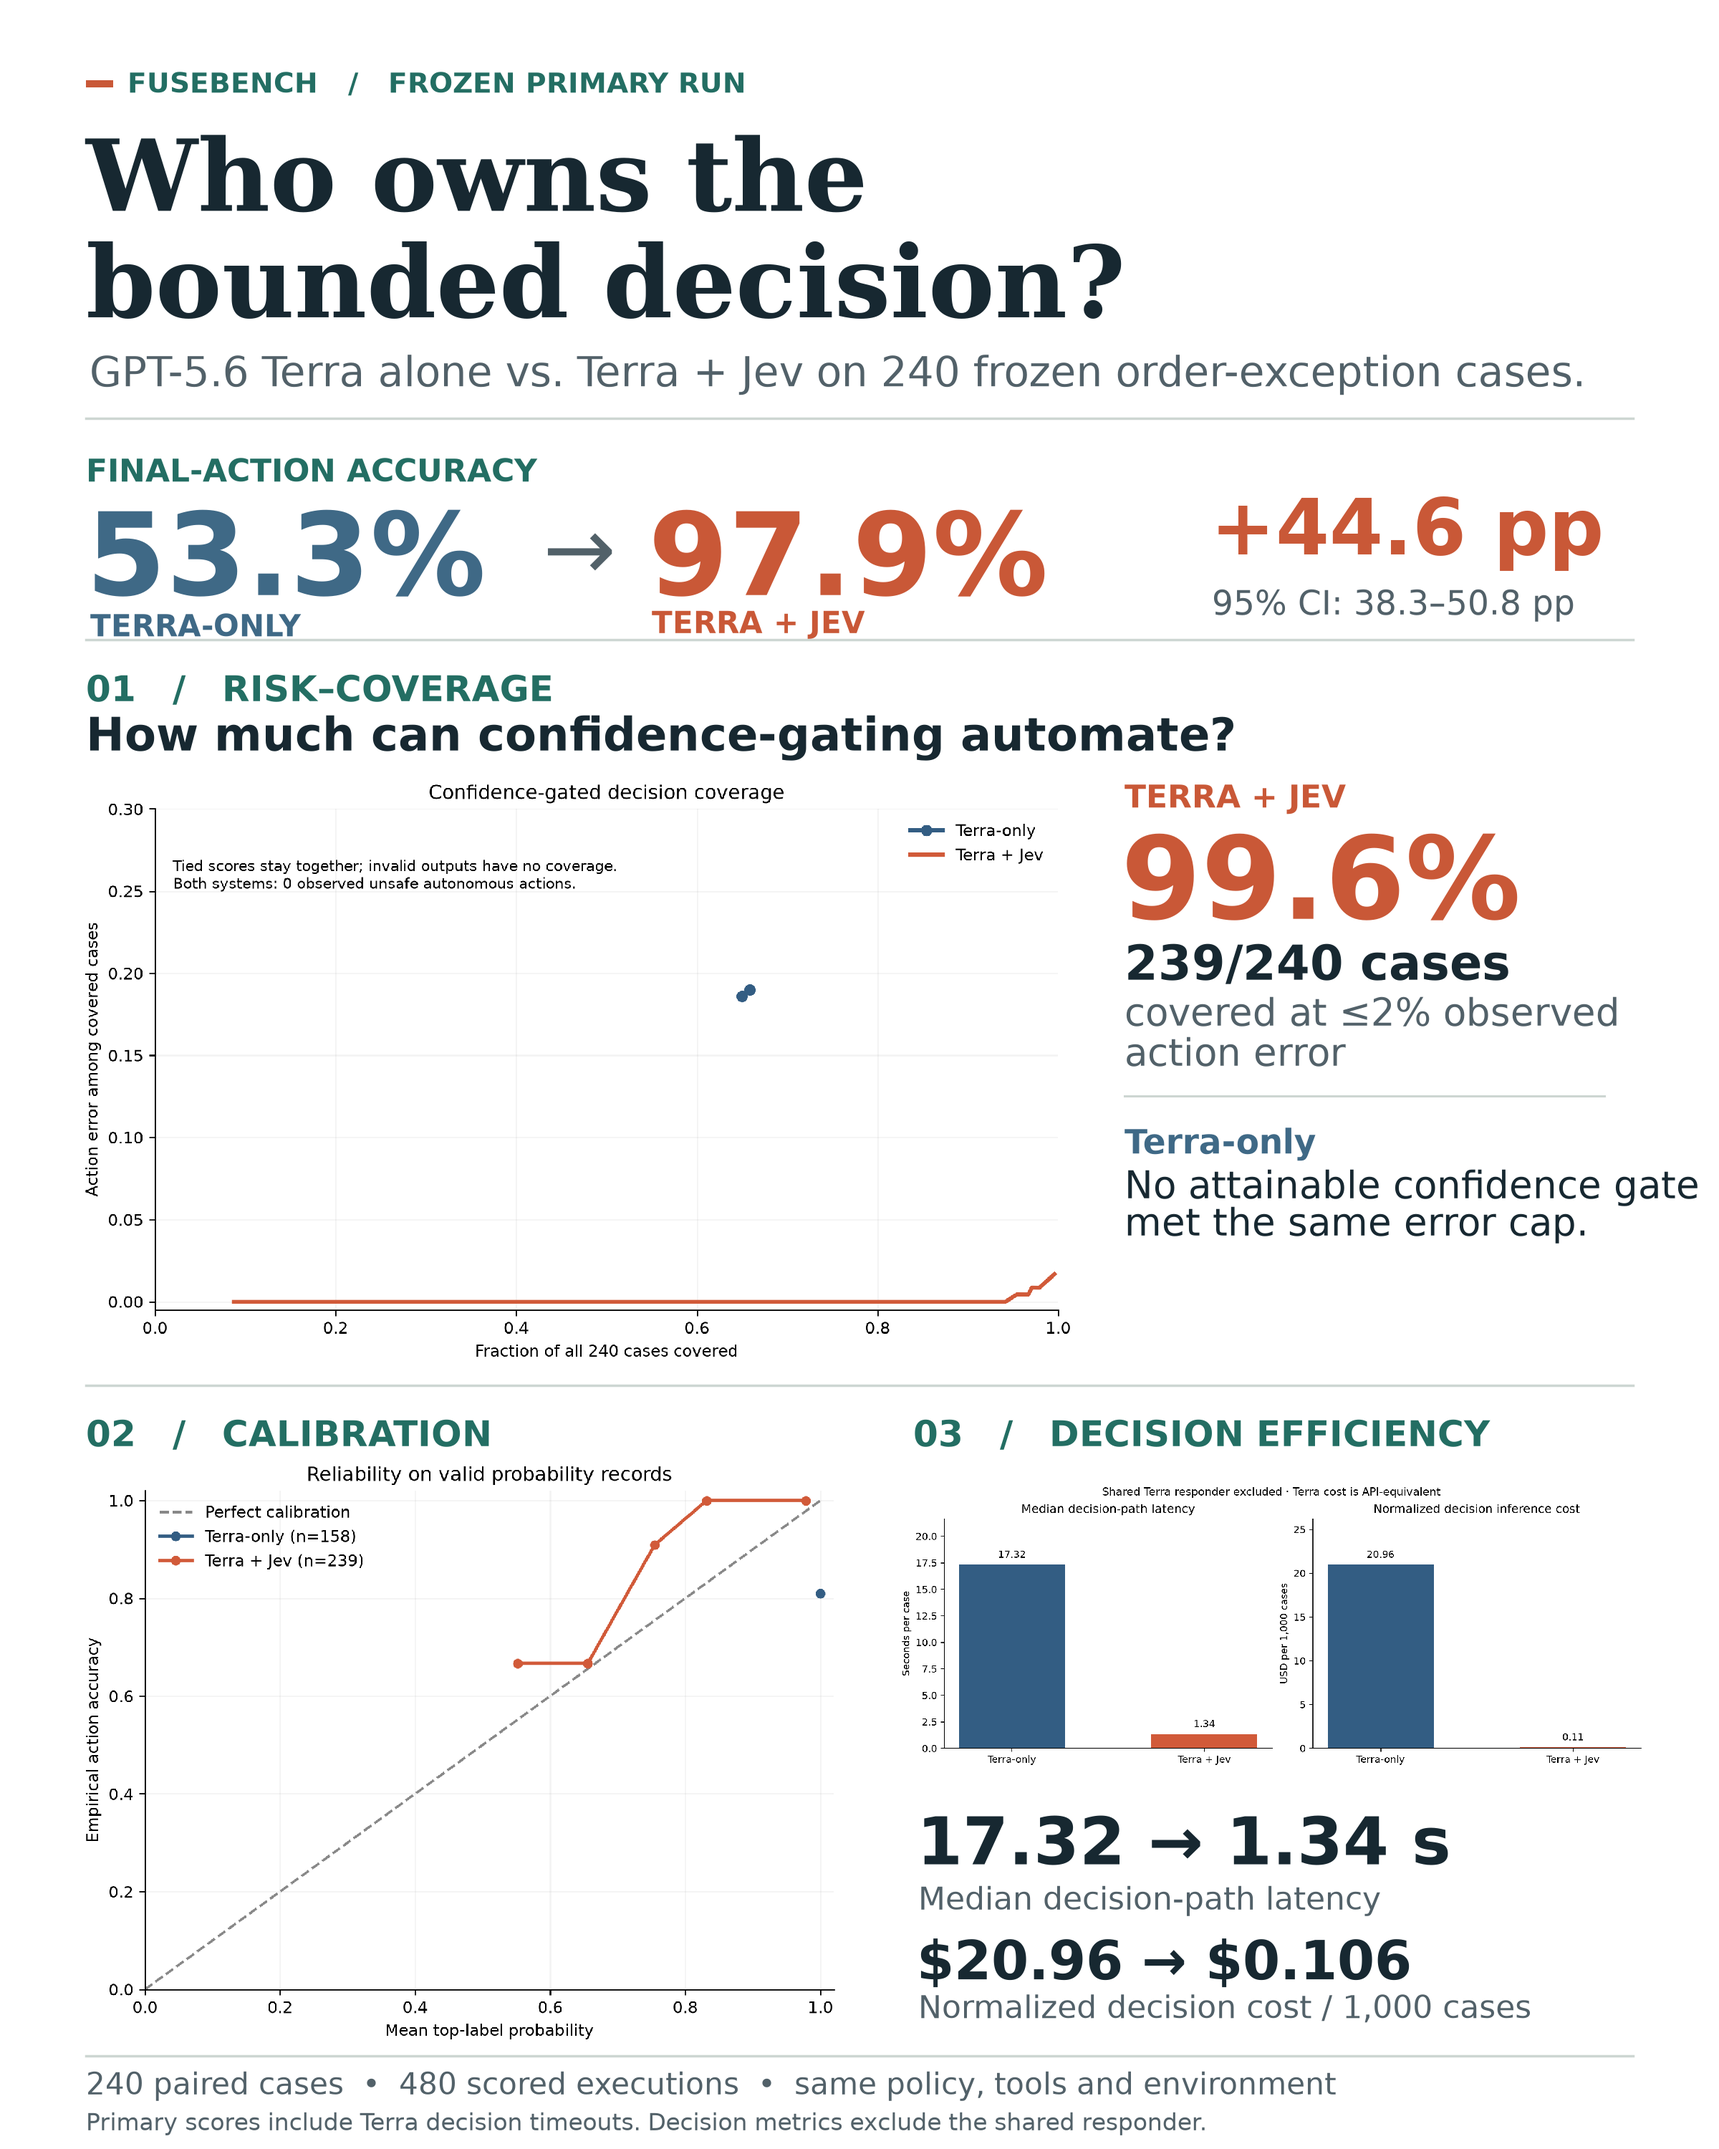
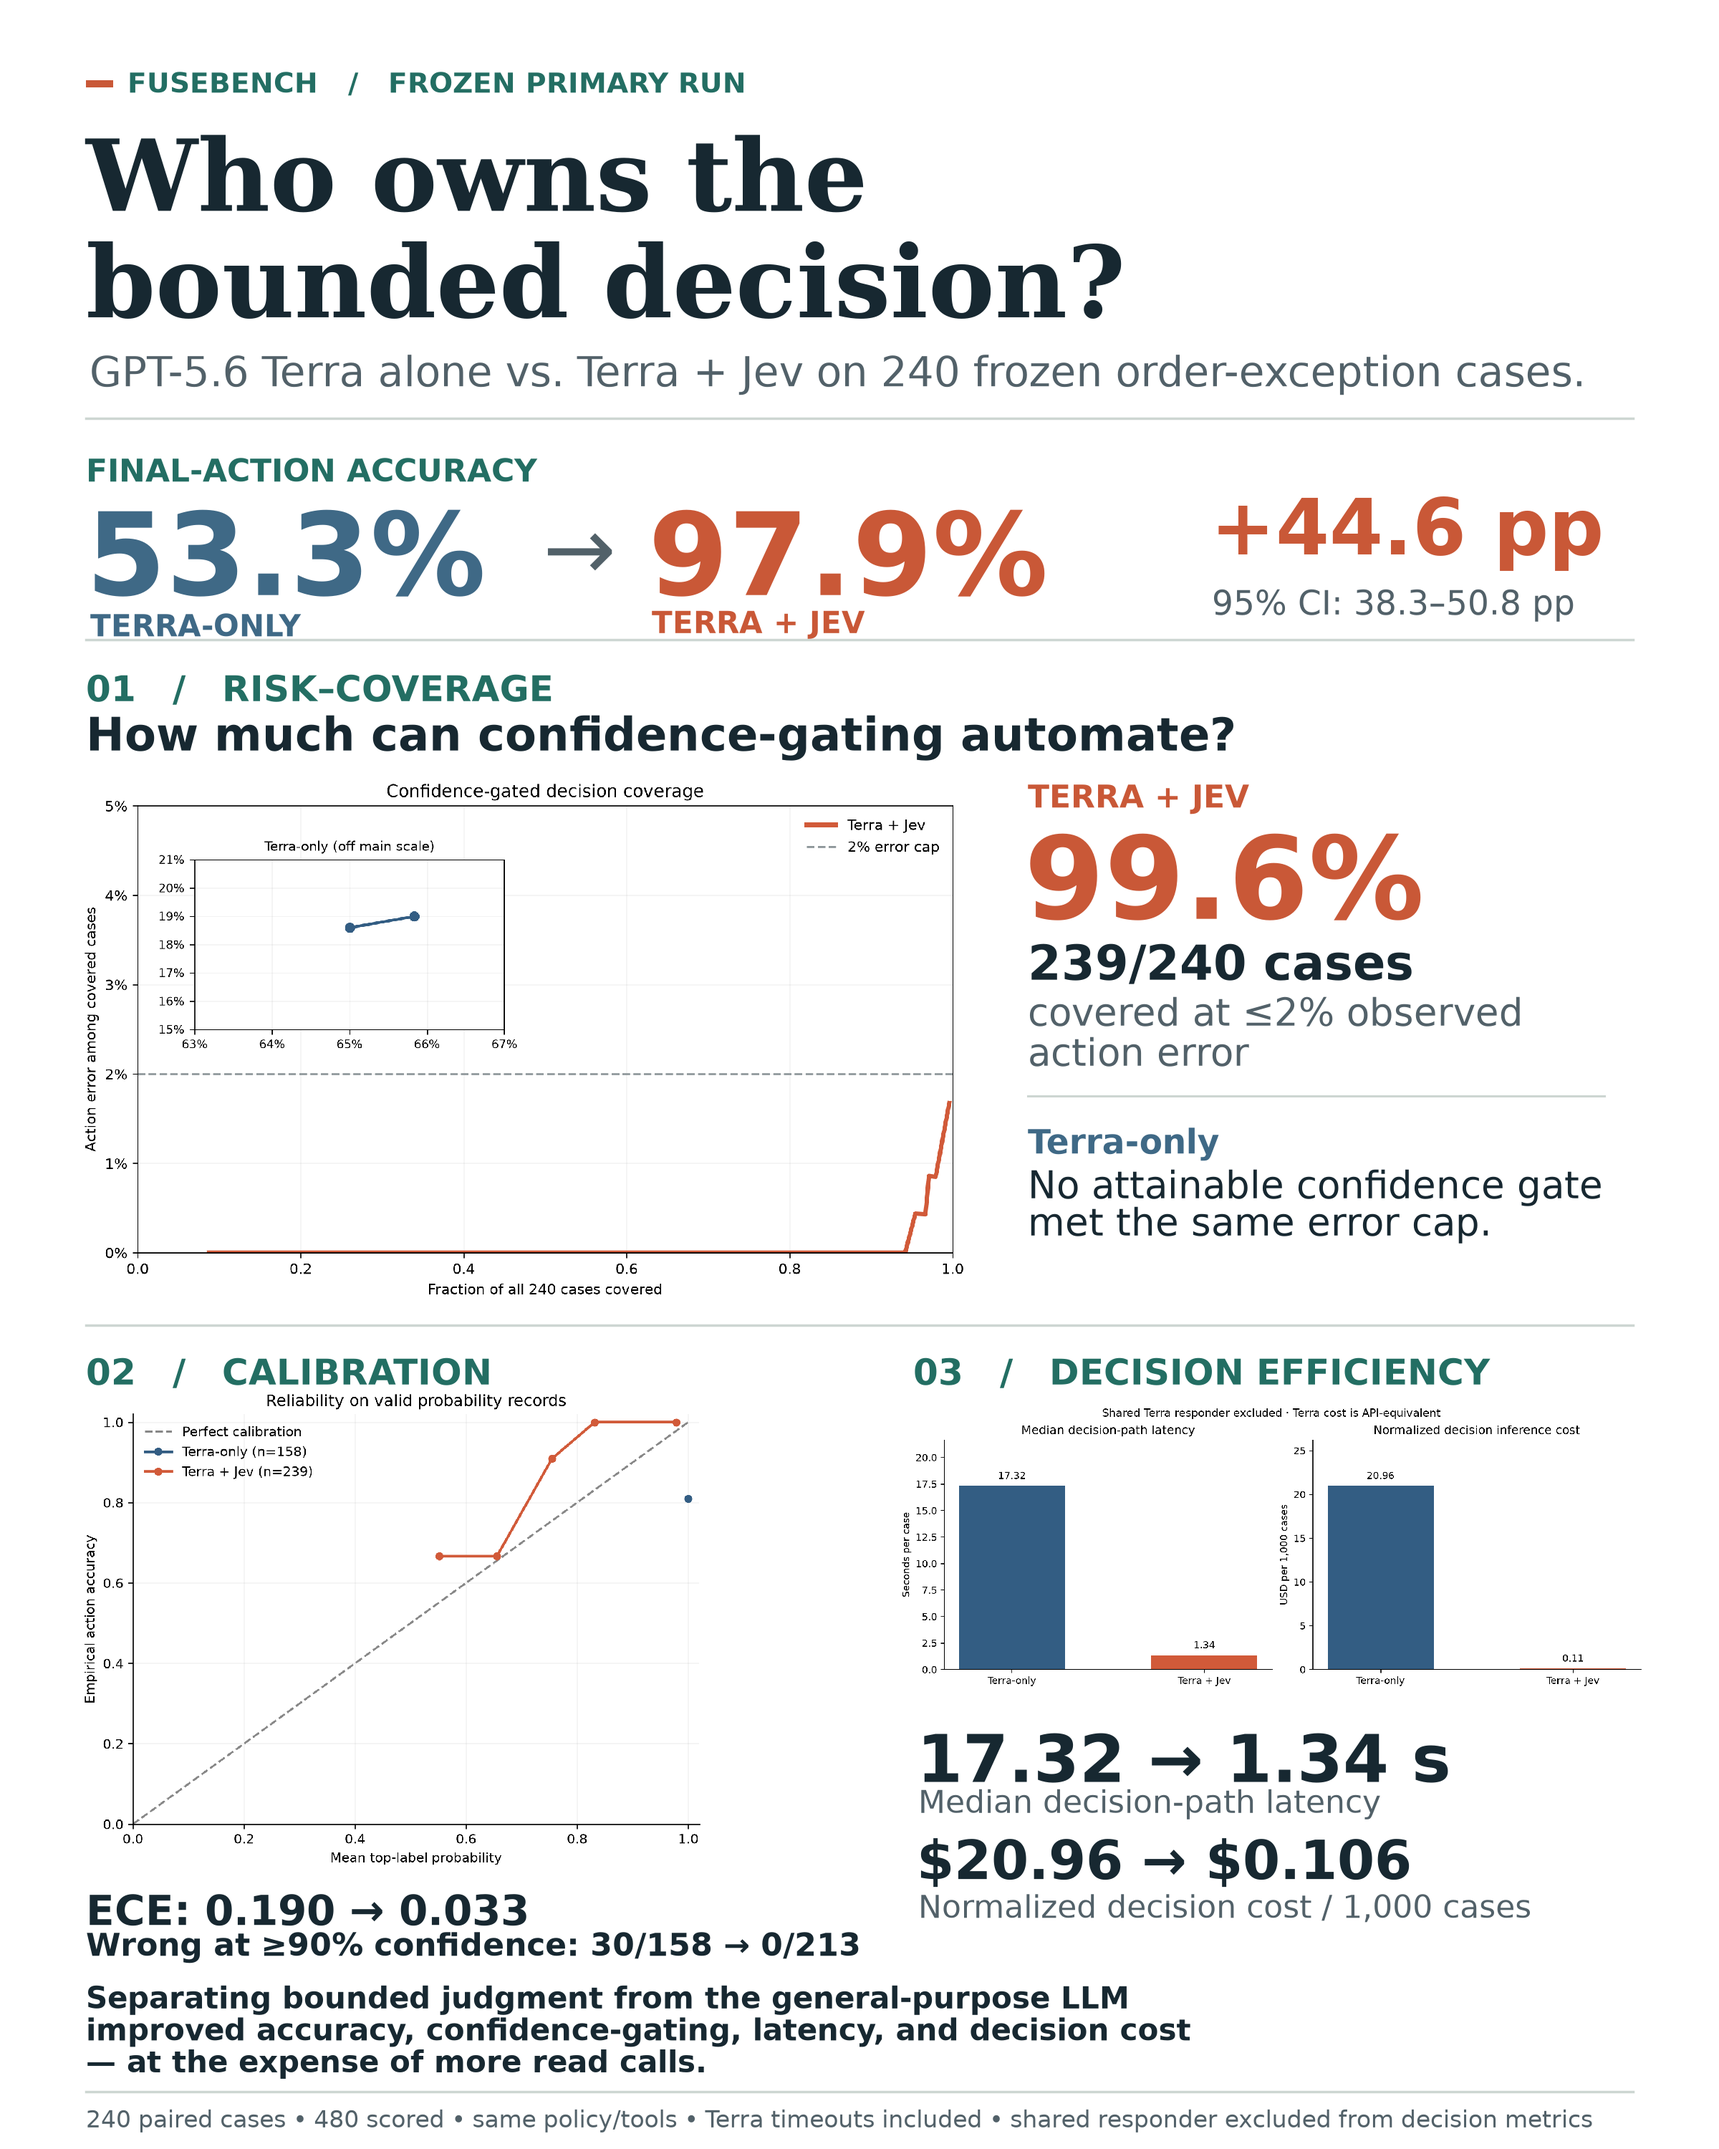
docs: sharpen social risk and calibration figures

diff --git a/artifacts/final/build_social_report.py b/artifacts/final/build_social_report.py
@@ -28,6 +28,18 @@ ORANGE = "#c95837"
 GREEN = "#236e63"
 
 
+def calibration_summary(data: dict) -> tuple[str, str]:
+    """Format the two headline calibration comparisons from verified metrics."""
+    ece = data["metrics"]["ece"]
+    confident = data["metrics"]["high_confidence_wrong"]
+    return (
+        f"ECE: {ece['terra_only']:.3f} → {ece['terra_jev']:.3f}",
+        "Wrong at ≥90% confidence: "
+        f"{confident['terra_only_wrong']}/{confident['terra_only_count']} → "
+        f"{confident['terra_jev_wrong']}/{confident['terra_jev_count']}",
+    )
+
+
 def render_social_report(data: dict, figures: dict[str, Path], output: Path) -> None:
     """Place all three source figures at legible scale in one social canvas."""
     required = ("risk_coverage", "calibration", "latency_cost")
@@ -129,53 +141,58 @@ def render_social_report(data: dict, figures: dict[str, Path], output: Path) -> 
     # Evidence 01: the largest panel carries the risk/coverage result.
     label(120, 936, "01   /   RISK–COVERAGE", 18, color=GREEN, weight="bold")
     label(120, 996, "How much can confidence-gating automate?", 23, weight="bold")
-    source_figure("risk_coverage", 112, 1088, 1390, 818)
-    label(1570, 1092, "TERRA + JEV", 16, color=ORANGE, weight="bold")
-    label(1565, 1138, f"{risk['terra_jev_coverage']:.1%}", 58, color=ORANGE, weight="bold")
-    label(1570, 1310, f"{risk['terra_jev_covered_count']}/240 cases", 24, weight="bold")
-    label(1570, 1384, "covered at ≤2% observed", 19, color=MUTED)
-    label(1570, 1440, "action error", 19, color=MUTED)
-    ax.plot((1570, 2240), (1530, 1530), color=LINE, lw=1.1)
-    label(1570, 1572, "Terra-only", 17, color=BLUE, weight="bold")
-    label(1570, 1630, "No attainable confidence gate", 19)
-    label(1570, 1682, "met the same error cap.", 19)
-    rule(1934)
+    source_figure("risk_coverage", 112, 1088, 1240, 730)
+    label(1435, 1092, "TERRA + JEV", 16, color=ORANGE, weight="bold")
+    label(1430, 1138, f"{risk['terra_jev_coverage']:.1%}", 58, color=ORANGE, weight="bold")
+    label(1435, 1310, f"{risk['terra_jev_covered_count']}/240 cases", 24, weight="bold")
+    label(1435, 1384, "covered at ≤2% observed", 19, color=MUTED)
+    label(1435, 1440, "action error", 19, color=MUTED)
+    ax.plot((1435, 2240), (1530, 1530), color=LINE, lw=1.1)
+    label(1435, 1572, "Terra-only", 17, color=BLUE, weight="bold")
+    label(1435, 1630, "No attainable confidence gate", 19)
+    label(1435, 1682, "met the same error cap.", 19)
+    rule(1850)
 
     # Evidence 02/03: figures stay intact; large annotations remain readable in-feed.
-    label(120, 1976, "02   /   CALIBRATION", 18, color=GREEN, weight="bold")
-    label(1275, 1976, "03   /   DECISION EFFICIENCY", 18, color=GREEN, weight="bold")
-    source_figure("calibration", 112, 2040, 1060, 814)
-    source_figure("latency_cost", 1255, 2070, 1040, 400)
+    label(120, 1890, "02   /   CALIBRATION", 18, color=GREEN, weight="bold")
+    label(1275, 1890, "03   /   DECISION EFFICIENCY", 18, color=GREEN, weight="bold")
+    source_figure("calibration", 112, 1940, 870, 670)
+    source_figure("latency_cost", 1255, 1960, 1040, 400)
+    ece_summary, confident_summary = calibration_summary(data)
+    label(120, 2635, ece_summary, 21, weight="bold")
+    label(120, 2695, confident_summary, 16, weight="bold")
     label(
         1280,
-        2520,
+        2405,
         f"{latency['terra_only_seconds']:.2f} → {latency['terra_jev_seconds']:.2f} s",
         33,
         weight="bold",
     )
-    label(1282, 2630, "Median decision-path latency", 16, color=MUTED)
+    label(1282, 2495, "Median decision-path latency", 16, color=MUTED)
     label(
         1280,
-        2700,
+        2560,
         f"\\${cost['terra_only_usd']:.2f} → \\${cost['terra_jev_usd']:.3f}",
         27,
         weight="bold",
     )
-    label(1282, 2780, "Normalized decision cost / 1,000 cases", 16, color=MUTED)
+    label(1282, 2640, "Normalized decision cost / 1,000 cases", 16, color=MUTED)
 
-    rule(2870)
     label(
         120,
-        2890,
-        "240 paired cases  •  480 scored executions  •  same policy, tools and environment",
+        2770,
+        "Separating bounded judgment from the general-purpose LLM\n"
+        "improved accuracy, confidence-gating, latency, and decision cost\n"
+        "— at the expense of more read calls.",
         15,
-        color=MUTED,
+        weight="bold",
     )
+    rule(2920)
     label(
         120,
-        2947,
-        "Primary scores include Terra decision timeouts. "
-        "Decision metrics exclude the shared responder.",
+        2943,
+        "240 paired cases • 480 scored • same policy/tools • Terra timeouts included • "
+        "shared responder excluded from decision metrics",
         12,
         color=MUTED,
     )

diff --git a/artifacts/final/build_results.py b/artifacts/final/build_results.py
@@ -437,6 +437,49 @@ def _full_system_secondary(records: list[RunRecord]) -> dict:
     return by_system
 
 
+def _risk_coverage_figure(summary: dict):
+    """Show the operational low-error region and the off-scale Terra-only result."""
+    from matplotlib.ticker import PercentFormatter
+
+    fig, ax = plt.subplots(figsize=(8.5, 5), constrained_layout=True)
+    jev = summary["systems"]["terra_jev"]["coverage"]["continuous_tie_aware"]
+    terra = summary["systems"]["terra_only"]["coverage"]["continuous_tie_aware"]
+    ax.plot(
+        [point["coverage"] for point in jev],
+        [point["action_error_rate"] for point in jev],
+        label="Terra + Jev",
+        color=COLORS["terra_jev"],
+        linewidth=3,
+    )
+    ax.axhline(0.02, color="#8d9699", linewidth=1.4, linestyle="--", label="2% error cap")
+    ax.set(
+        xlim=(0, 1),
+        ylim=(0, 0.05),
+        xlabel="Fraction of all 240 cases covered",
+        ylabel="Action error among covered cases",
+        title="Confidence-gated decision coverage",
+    )
+    ax.yaxis.set_major_formatter(PercentFormatter(1.0, decimals=0))
+    ax.grid(alpha=0.15)
+    ax.legend(frameon=False, loc="upper right")
+
+    inset = ax.inset_axes((0.07, 0.50, 0.38, 0.38))
+    inset.plot(
+        [point["coverage"] for point in terra],
+        [point["action_error_rate"] for point in terra],
+        color=COLORS["terra_only"],
+        linewidth=2,
+        marker="o",
+    )
+    inset.set(xlim=(0.63, 0.67), ylim=(0.15, 0.21), title="Terra-only (off main scale)")
+    inset.xaxis.set_major_formatter(PercentFormatter(1.0, decimals=0))
+    inset.yaxis.set_major_formatter(PercentFormatter(1.0, decimals=0))
+    inset.tick_params(labelsize=8)
+    inset.title.set_fontsize(9)
+    inset.grid(alpha=0.15)
+    return fig, ax
+
+
 def _plots(summary: dict) -> list[str]:
     plt.rcParams.update(
         {
@@ -451,36 +494,7 @@ def _plots(summary: dict) -> list[str]:
     )
     names = []
 
-    fig, ax = plt.subplots(figsize=(8.5, 5), constrained_layout=True)
-    for system in SYSTEMS:
-        points = summary["systems"][system]["coverage"]["continuous_tie_aware"]
-        coverage = [p["coverage"] for p in points]
-        action = [p["action_error_rate"] for p in points]
-        ax.plot(
-            coverage,
-            action,
-            label=LABELS[system],
-            color=COLORS[system],
-            linewidth=2.5,
-            marker="o" if system == "terra_only" else None,
-        )
-    ax.set(
-        xlim=(0, 1),
-        ylim=(-0.005, 0.30),
-        xlabel="Fraction of all 240 cases covered",
-        ylabel="Action error among covered cases",
-        title="Confidence-gated decision coverage",
-    )
-    ax.grid(alpha=0.15)
-    ax.legend(frameon=False)
-    ax.text(
-        0.02,
-        0.27,
-        "Tied scores stay together; invalid outputs have no coverage.\n"
-        "Both systems: 0 observed unsafe autonomous actions.",
-        fontsize=9,
-        va="top",
-    )
+    fig, _ = _risk_coverage_figure(summary)
     path = OUT / "risk_coverage.png"
     fig.savefig(path, dpi=240)
     plt.close(fig)

diff --git a/tests/unit/test_public_risk_plot.py b/tests/unit/test_public_risk_plot.py
@@ -1,0 +1,42 @@
+"""The public risk figure makes the low-error region legible without hiding the outlier."""
+
+from __future__ import annotations
+
+import matplotlib.pyplot as plt
+import pytest
+
+from artifacts.final import build_results
+
+
+def test_public_risk_figure_zooms_main_axis_and_preserves_terra_outlier() -> None:
+    summary = {
+        "systems": {
+            "terra_only": {
+                "coverage": {
+                    "continuous_tie_aware": [
+                        {"coverage": 0.65, "action_error_rate": 0.186},
+                        {"coverage": 0.658, "action_error_rate": 0.190},
+                    ]
+                }
+            },
+            "terra_jev": {
+                "coverage": {
+                    "continuous_tie_aware": [
+                        {"coverage": 0.50, "action_error_rate": 0.0},
+                        {"coverage": 0.996, "action_error_rate": 0.0167},
+                    ]
+                }
+            },
+        }
+    }
+
+    assert hasattr(build_results, "_risk_coverage_figure")
+    figure, main = build_results._risk_coverage_figure(summary)
+    try:
+        assert main.get_ylim() == pytest.approx((0, 0.05))
+        assert len(main.child_axes) == 1
+        inset = main.child_axes[0]
+        assert inset.get_ylim() == pytest.approx((0.15, 0.21))
+        assert list(inset.lines[0].get_ydata()) == pytest.approx([0.186, 0.190])
+    finally:
+        plt.close(figure)

diff --git a/tests/unit/test_social_report.py b/tests/unit/test_social_report.py
@@ -55,3 +55,13 @@ def test_social_report_rejects_missing_source_figure(tmp_path: Path) -> None:
 
     with pytest.raises(FileNotFoundError, match="calibration"):
         report.render_social_report(data, figures, tmp_path / "report.png")
+
+
+def test_calibration_summary_uses_frozen_valid_output_denominators() -> None:
+    report = _report_module()
+    data = json.loads((ROOT / "artifacts/final/infographic-data.json").read_text(encoding="utf-8"))
+
+    assert report.calibration_summary(data) == (
+        "ECE: 0.190 → 0.033",
+        "Wrong at ≥90% confidence: 30/158 → 0/213",
+    )
